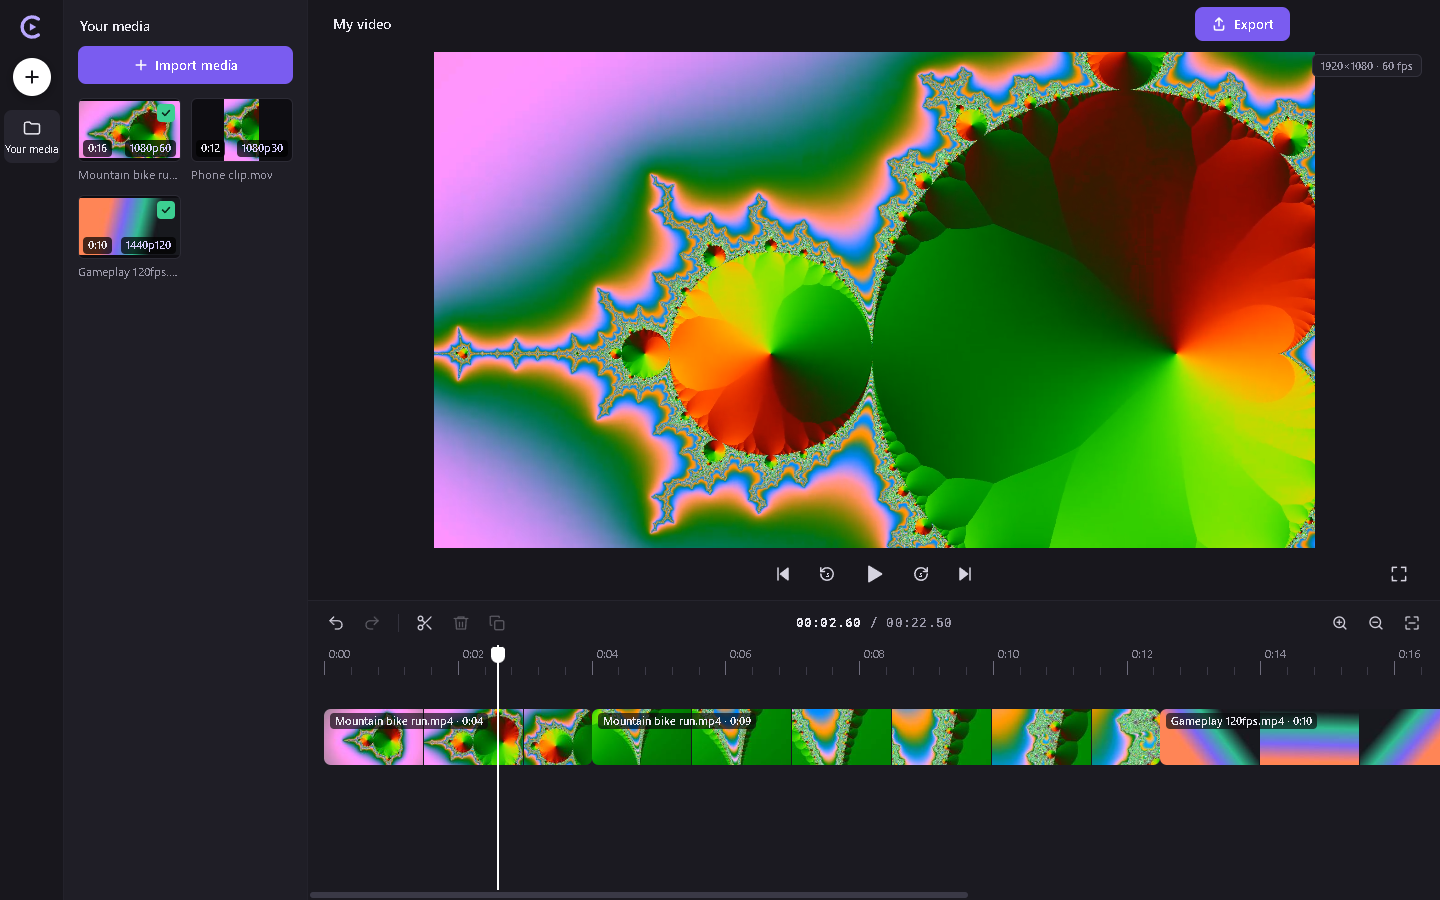
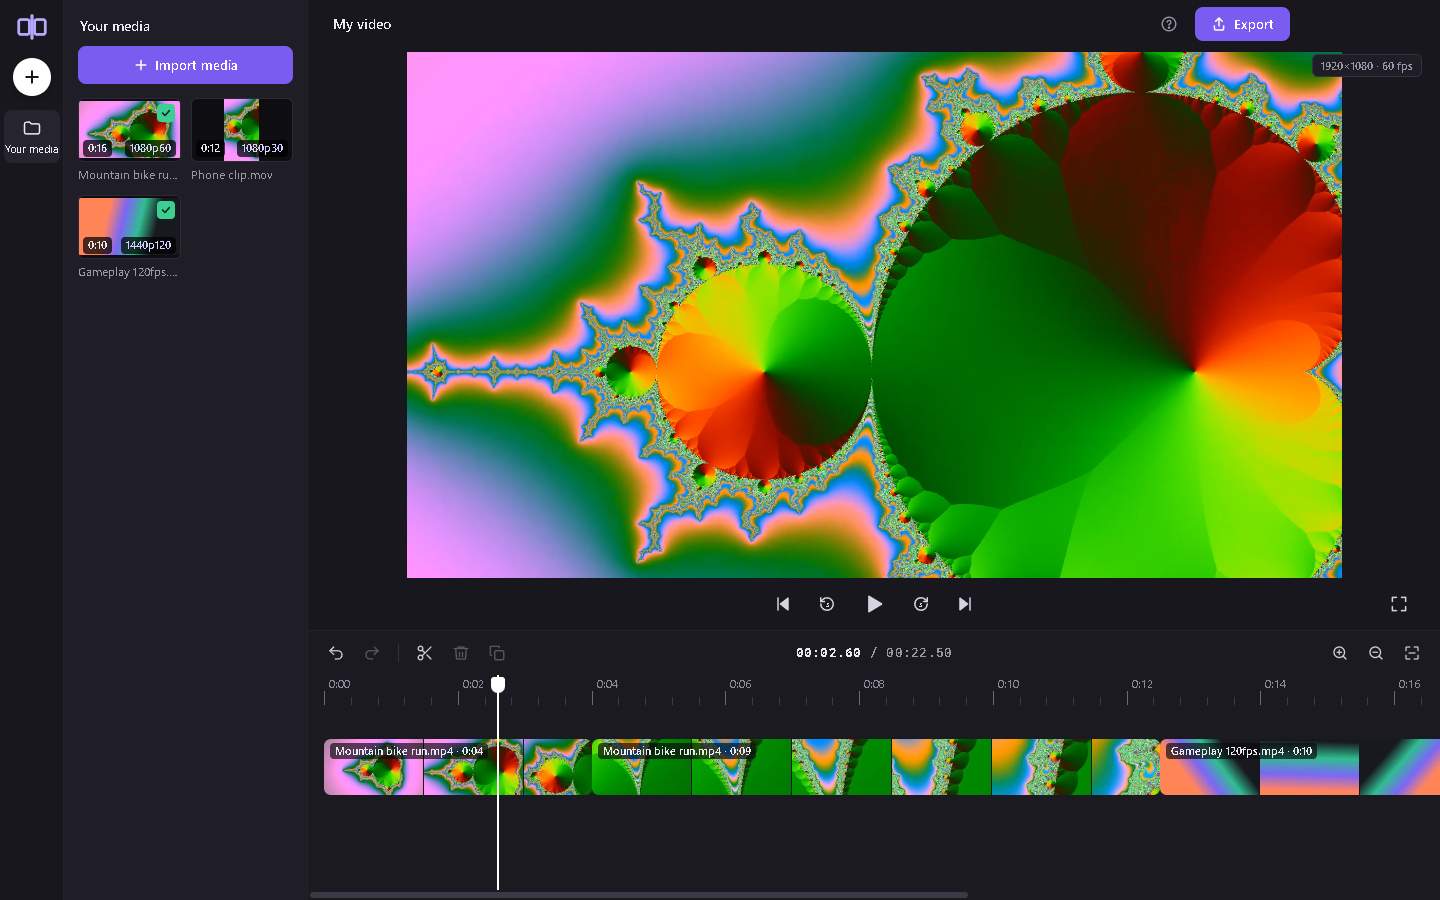
Rename ClipCut to FrameSeam
New name, new mark (two frames joined at a seam), same app. Covers the window
title, AppUserModelID, settings folder, temp-file prefix, the test hook
variable (FRAMESEAM_TEST), the setup script and shortcuts, the docs and the
README images.

diff --git a/src/main.js b/src/main.js
@@ -20,7 +20,7 @@ function createWindow() {
     minWidth: 1000,
     minHeight: 640,
     backgroundColor: '#18171d',
-    title: 'ClipCut',
+    title: 'FrameSeam',
     icon: path.join(__dirname, 'renderer', process.platform === 'win32' ? 'icon.ico' : 'icon.png'),
     titleBarStyle: 'hidden',
     titleBarOverlay: { color: '#18171d', symbolColor: '#c9c7d4', height: 48 },
@@ -65,7 +65,7 @@ function createWindow() {
     } else if (dirty) {
       const r = dialog.showMessageBoxSync(win, {
         type: 'question', buttons: ['Stay', 'Quit without exporting'], defaultId: 0, cancelId: 0,
-        title: 'Quit ClipCut?', message: "Your edit hasn't been exported yet. Quit anyway?",
+        title: 'Quit FrameSeam?', message: "Your edit hasn't been exported yet. Quit anyway?",
       });
       if (r === 0) e.preventDefault();
     }
@@ -125,15 +125,15 @@ ipcMain.handle('export-cancel', () => ff.cancelExport());
 ipcMain.handle('show-in-folder', (_e, p) => shell.showItemInFolder(p));
 ipcMain.on('set-dirty', (_e, d) => { dirty = !!d; });
 
-app.setName('ClipCut');
-app.setAppUserModelId('ClipCut.VideoEditor');
+app.setName('FrameSeam');
+app.setAppUserModelId('FrameSeam.VideoEditor');
 
 app.whenReady().then(async () => {
   const tc = await ff.checkToolchain();
   if (!tc.ok) {
-    dialog.showErrorBox('ClipCut needs ffmpeg',
-      `ClipCut uses ffmpeg and ffprobe to read and export video, but they could not be started (${tc.error}).\n\n` +
-      'Run Setup.bat in the ClipCut folder to download them, or install ffmpeg and add it to your PATH, then start ClipCut again.');
+    dialog.showErrorBox('FrameSeam needs ffmpeg',
+      `FrameSeam uses ffmpeg and ffprobe to read and export video, but they could not be started (${tc.error}).\n\n` +
+      'Run Setup.bat in the FrameSeam folder to download them, or install ffmpeg and add it to your PATH, then start FrameSeam again.');
     app.quit();
     return;
   }
@@ -141,15 +141,15 @@ app.whenReady().then(async () => {
     dialog.showMessageBoxSync({
       type: 'warning', title: 'ffmpeg', buttons: ['Continue anyway'],
       message: tc.major < 6
-        ? `ffmpeg ${tc.version} is older than ClipCut was tested with (6.0 or newer). Exports may fail. Run Setup.bat to get a current one.`
+        ? `ffmpeg ${tc.version} is older than FrameSeam was tested with (6.0 or newer). Exports may fail. Run Setup.bat to get a current one.`
         : `This ffmpeg (${tc.ffmpeg}) was built without ${!tc.cpu.h264 ? 'libx264' : 'libx265'}, so "Exact cuts" on the CPU won't work. Run Setup.bat to get a full build.`,
     });
   }
   ff.cleanupTemp();
   ff.detectEncoders(); // warm up so the export dialog opens instantly
   createWindow();
-  // Developer hook used by `npm test`: CLIPCUT_TEST=<path to a module exporting (win, ctl) => {}> drives the window.
-  if (process.env.CLIPCUT_TEST) require(path.resolve(process.env.CLIPCUT_TEST))(win, { setDirty: d => { dirty = d; } });
+  // Developer hook used by `npm test`: FRAMESEAM_TEST=<path to a module exporting (win, ctl) => {}> drives the window.
+  if (process.env.FRAMESEAM_TEST) require(path.resolve(process.env.FRAMESEAM_TEST))(win, { setDirty: d => { dirty = d; } });
 });
 
 app.on('window-all-closed', () => app.quit());

diff --git a/src/renderer/app.js b/src/renderer/app.js
@@ -1,5 +1,5 @@
 'use strict';
-/* ClipCut editor UI: media library, preview player, single-track magnetic timeline, export dialog. */
+/* FrameSeam editor UI: media library, preview player, single-track magnetic timeline, export dialog. */
 
 const $ = s => document.querySelector(s);
 // `api` is the global the preload script exposes (see preload.js).
@@ -294,7 +294,7 @@ grid.addEventListener('dblclick', e => {
 grid.addEventListener('dragstart', e => {
   const card = e.target.closest('.media-card');
   if (!card) return;
-  e.dataTransfer.setData('application/x-clipcut-media', card.dataset.id);
+  e.dataTransfer.setData('application/x-frameseam-media', card.dataset.id);
   e.dataTransfer.effectAllowed = 'copy';
   const th = card.querySelector('.thumb');
   if (th) e.dataTransfer.setDragImage(th, th.offsetWidth / 2, th.offsetHeight / 2);
@@ -875,7 +875,7 @@ function doTrim(x) {
 }
 
 // ---------------------------------------------------------------- drag & drop (media panel and Explorer)
-const MEDIA_TYPE = 'application/x-clipcut-media';
+const MEDIA_TYPE = 'application/x-frameseam-media';
 const isFileDrag = e => e.dataTransfer && Array.from(e.dataTransfer.types).includes('Files');
 const isMediaDrag = e => e.dataTransfer && Array.from(e.dataTransfer.types).includes(MEDIA_TYPE);
 

diff --git a/src/renderer/index.html b/src/renderer/index.html
@@ -2,7 +2,7 @@
 <html lang="en">
 <head>
   <meta charset="utf-8">
-  <title>ClipCut</title>
+  <title>FrameSeam</title>
   <meta http-equiv="Content-Security-Policy"
         content="default-src 'self'; img-src 'self' data: blob:; media-src 'self' file: blob:; style-src 'self' 'unsafe-inline'; script-src 'self'">
   <link rel="stylesheet" href="styles.css">
@@ -10,8 +10,8 @@
 <body>
 <div id="app">
   <nav id="rail">
-    <div class="logo" title="ClipCut">
-      <svg viewBox="0 0 32 32"><path d="M22 8.5A9.5 9.5 0 1 0 22 23.5" fill="none" stroke="currentColor" stroke-width="3.2" stroke-linecap="round"/><path d="M14 12.5v7l6-3.5z" fill="currentColor"/></svg>
+    <div class="logo" title="FrameSeam">
+      <svg viewBox="0 0 32 32"><rect x="3.5" y="9" width="10" height="14" rx="2.2" fill="none" stroke="currentColor" stroke-width="2.6"/><rect x="18.5" y="9" width="10" height="14" rx="2.2" fill="none" stroke="currentColor" stroke-width="2.6"/><path d="M16 5.5v21" stroke="currentColor" stroke-width="3" stroke-linecap="round"/></svg>
     </div>
     <button id="railImport" class="rail-plus" title="Import media" data-icon="plus"></button>
     <button class="rail-item active" title="Your media"><span data-icon="folder"></span><span>Your media</span></button>

diff --git a/src/ffmpeg.js b/src/ffmpeg.js
@@ -11,7 +11,7 @@ const BIN_DIR = path.join(__dirname, '..', 'tools', 'ffmpeg');
 const bundled = name => path.join(BIN_DIR, name + (process.platform === 'win32' ? '.exe' : ''));
 const FFMPEG = fs.existsSync(bundled('ffmpeg')) ? bundled('ffmpeg') : 'ffmpeg';
 const FFPROBE = fs.existsSync(bundled('ffprobe')) ? bundled('ffprobe') : 'ffprobe';
-const TMP_PREFIX = 'clipcut-';
+const TMP_PREFIX = 'frameseam-';
 
 // ---------- toolchain ----------
 
@@ -509,11 +509,11 @@ function isRunning(pid) {
   try { process.kill(pid, 0); return true; } catch (e) { return e.code === 'EPERM'; }
 }
 
-// Remove temp folders left behind by a ClipCut that was killed mid-export (never those of one still running).
+// Remove temp folders left behind by a FrameSeam that was killed mid-export (never those of one still running).
 function cleanupTemp() {
   try {
     for (const name of fs.readdirSync(os.tmpdir())) {
-      const m = /^clipcut-(\d+)-/.exec(name);
+      const m = /^frameseam-(\d+)-/.exec(name);
       if (!m || isRunning(Number(m[1]))) continue;
       fs.rmSync(path.join(os.tmpdir(), name), { recursive: true, force: true });
     }

diff --git a/test/run.js b/test/run.js
@@ -67,7 +67,7 @@ function soundStart(file) {
 // 2. Drive the app
 console.log('Running the app...');
 check(fs.existsSync(ELECTRON), `Electron binary present (${ELECTRON})`);
-const run = spawnSync(ELECTRON, [ROOT], { env: { ...process.env, CLIPCUT_TEST: path.join(__dirname, 'ui.js') }, stdio: 'inherit', timeout: 10 * 60 * 1000 });
+const run = spawnSync(ELECTRON, [ROOT], { env: { ...process.env, FRAMESEAM_TEST: path.join(__dirname, 'ui.js') }, stdio: 'inherit', timeout: 10 * 60 * 1000 });
 check(run.status === 0, `app exited cleanly (code ${run.status})`);
 const resultFile = path.join(TMP, 'result.json');
 check(fs.existsSync(resultFile), 'the harness wrote result.json');

diff --git a/test/ui.js b/test/ui.js
@@ -1,6 +1,6 @@
 'use strict';
-// Drives the real ClipCut window through a scripted edit-and-export session. Loaded by src/main.js when the
-// CLIPCUT_TEST environment variable points at this file; test/run.js sets that up and checks the results.
+// Drives the real FrameSeam window through a scripted edit-and-export session. Loaded by src/main.js when the
+// FRAMESEAM_TEST environment variable points at this file; test/run.js sets that up and checks the results.
 const fs = require('fs');
 const path = require('path');
 const { app } = require('electron');

diff --git a/README.md b/README.md
@@ -1,6 +1,6 @@
 <p align="center"><img src="src/renderer/icon.png" width="88" alt=""></p>
 
-<h1 align="center">ClipCut</h1>
+<h1 align="center">FrameSeam</h1>
 
 <p align="center"><b>A Clipchamp-style video cutter for Windows that leaves your footage's resolution, frame rate and orientation exactly as it found them.</b></p>
 
@@ -8,7 +8,7 @@
 
 Open a long recording (or several), cut out the parts you don't want, join what's left, export. 120 fps stays 120 fps, 4K stays 4K, portrait phone video stays portrait. Everything runs on your own PC: no account, no cloud, no cache quietly filling up your drive.
 
-![ClipCut with two clips on the timeline and the middle of the first one cut out](docs/screenshot.png)
+![FrameSeam with two clips on the timeline and the middle of the first one cut out](docs/screenshot.png)
 
 ![Import a video, split it twice, delete the middle piece, export](docs/demo.gif)
 
@@ -39,10 +39,10 @@ The idea, the interface brief and the testing are mine; the code was written by 
 
 Windows 10/11, 64-bit. A GPU is optional.
 
-1. **Get the code.** Click the green **Code** button → **Download ZIP** and unzip it somewhere permanent, or `git clone https://github.com/reepadam/clipcut.git`.
-2. **Double-click `Setup.bat`.** It downloads what the app needs *into the ClipCut folder* (nothing is installed system-wide; npm keeps its usual small cache in `%LocalAppData%\npm-cache`): ffmpeg 9.0.2 from gyan.dev (about 110 MB), Electron through npm (about 160 MB) and, only if you don't already have Node.js 22.12 or newer, a portable Node.js 26 (about 40 MB). The ffmpeg and Node.js downloads are pinned to those exact versions and checked against their published SHA-256 before anything is unpacked. It takes a minute or two and finishes by putting a **ClipCut** shortcut on your desktop.
+1. **Get the code.** Click the green **Code** button → **Download ZIP** and unzip it somewhere permanent, or `git clone https://github.com/reepadam/frameseam.git`.
+2. **Double-click `Setup.bat`.** It downloads what the app needs *into the FrameSeam folder* (nothing is installed system-wide; npm keeps its usual small cache in `%LocalAppData%\npm-cache`): ffmpeg 9.0.2 from gyan.dev (about 110 MB), Electron through npm (about 160 MB) and, only if you don't already have Node.js 22.12 or newer, a portable Node.js 26 (about 40 MB). The ffmpeg and Node.js downloads are pinned to those exact versions and checked against their published SHA-256 before anything is unpacked. It takes a minute or two and finishes by putting a **FrameSeam** shortcut on your desktop.
    SmartScreen may say "Windows protected your PC" because the script isn't signed: choose **More info → Run anyway**.
-3. **Double-click the ClipCut shortcut.**
+3. **Double-click the FrameSeam shortcut.**
 
 To update later, download the new version over the old folder (or `git pull`) and run `Setup.bat` again; it only fetches what's missing.
 
@@ -56,7 +56,7 @@ To update later, download the new version over the old folder (or `git pull`) an
    - Click the middle piece and press **Delete**. The gap closes by itself.
    - Or drag the white edges of a clip to trim its start or end.
 4. **Export.** Pick a name and a location.
-   - **Exact cuts** (default): frame-accurate, re-encoded at near-original quality. Pick the quality level (*High* is a good default; *Visually lossless* makes a bigger file) and the video card, or the CPU; ClipCut remembers the card you chose.
+   - **Exact cuts** (default): frame-accurate, re-encoded at near-original quality. Pick the quality level (*High* is a good default; *Visually lossless* makes a bigger file) and the video card, or the CPU; FrameSeam remembers the card you chose.
    - **Fast & lossless**: no re-encoding at all, done in seconds. Each cut starts at the nearest earlier keyframe, so it can begin up to a couple of seconds early. Only offered when every clip comes from a video with the same format.
    - The file type follows the name you choose: `.mp4` (default), `.mov` or `.mkv`.
 
@@ -83,8 +83,8 @@ To update later, download the new version over the old folder (or `git pull`) an
 - When you join videos with different sizes or frame rates, the export matches the **first** clip on the timeline. The others are scaled to fit, with black bars where the shape differs.
 - 10-bit and HDR sources are exported as 10-bit HEVC with their colour tags (primaries, transfer, matrix) and HDR10 mastering-display / content-light metadata intact, on both the CPU and NVENC paths; nothing is tone-mapped.
 - The preview uses Chromium's video decoders. A format it can't play (ProRes, for example) shows "No preview" but still cuts and exports normally.
-- Press **?** in the app for the shortcut list. Between sessions ClipCut keeps only your video-card choice, plus the small profile folder every Chromium-based app writes (shader and GPU caches, usually under 20 MB), in `%AppData%\ClipCut`. Nothing about your videos is stored.
-- Keep the ClipCut folder out of OneDrive or other synced folders: `node_modules` and `tools` are hundreds of megabytes of files that a sync client will happily upload and occasionally lock.
+- Press **?** in the app for the shortcut list. Between sessions FrameSeam keeps only your video-card choice, plus the small profile folder every Chromium-based app writes (shader and GPU caches, usually under 20 MB), in `%AppData%\FrameSeam`. Nothing about your videos is stored.
+- Keep the FrameSeam folder out of OneDrive or other synced folders: `node_modules` and `tools` are hundreds of megabytes of files that a sync client will happily upload and occasionally lock.
 
 ## How it works
 
@@ -97,8 +97,8 @@ To update later, download the new version over the old folder (or `git pull`) an
 ## Development
 
 ```
-git clone https://github.com/reepadam/clipcut.git
-cd clipcut
+git clone https://github.com/reepadam/frameseam.git
+cd frameseam
 Setup.bat        # or, with Node.js 22.12+ installed, `npm install`; then ffmpeg 6+ (a full build with libx264/libx265) must be on your PATH or in tools\ffmpeg
 npm start
 npm test
@@ -115,12 +115,12 @@ npm test
 
 `npm test` takes about a minute. It checks that imported files are read correctly, that split + delete removes exactly the chosen frames, that every export has the right size, frame rate, codec and an exact frame count, and that cancelling an export leaves no partial file behind. Hardware encoders are tested only if the machine has them.
 
-The app can be driven from a script: set `CLIPCUT_TEST` to a module exporting `(win, ctl) => {}` and `src/main.js` calls it with the window once it's open. `test/ui.js` is an example.
+The app can be driven from a script: set `FRAMESEAM_TEST` to a module exporting `(win, ctl) => {}` and `src/main.js` calls it with the window once it's open. `test/ui.js` is an example.
 
 ## Credits and licenses
 
-- ClipCut is released under the [MIT License](LICENSE), © 2026 Adam Reep.
-- **FFmpeg** is not part of this repository. `Setup.bat` downloads the ["essentials" build from gyan.dev](https://www.gyan.dev/ffmpeg/builds/), which is licensed under the **GPL** because it includes libx264 and libx265. ClipCut runs it as a separate program. See [ffmpeg.org/legal](https://ffmpeg.org/legal.html).
+- FrameSeam is released under the [MIT License](LICENSE), © 2026 Adam Reep.
+- **FFmpeg** is not part of this repository. `Setup.bat` downloads the ["essentials" build from gyan.dev](https://www.gyan.dev/ffmpeg/builds/), which is licensed under the **GPL** because it includes libx264 and libx265. FrameSeam runs it as a separate program. See [ffmpeg.org/legal](https://ffmpeg.org/legal.html).
 - [Electron](https://www.electronjs.org/) is MIT-licensed and downloaded through npm.
-- Clipchamp is a Microsoft product. ClipCut is an independent project that borrows its layout and nothing else.
+- Clipchamp is a Microsoft product. FrameSeam is an independent project that borrows its layout and nothing else.
 - Designed by Adam Reep; built by directing Claude.
